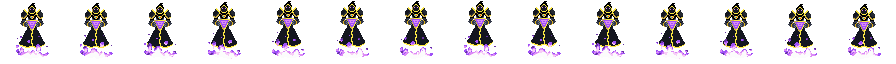
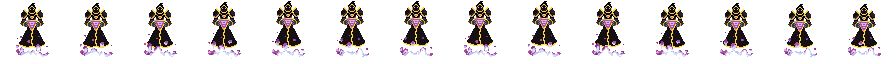
feat: lacaios da Guardiã como esqueletos violeta, círculo de ritual roxo e Guardiã na AAP-64
Claude-Session: https://claude.ai/code/session_012rGhc8giPw9Zwfh9X9HWP6

diff --git a/tools/pixel_art/monsters/recolor_monsters.py b/tools/pixel_art/monsters/recolor_monsters.py
@@ -11,6 +11,12 @@ o volume do sombreado) e menos no croma. Os vermelhos saturados (olhos, sangue) 
 e os cinzas neutros (metal) à rampa fria da pedra da cripta. Duas cores do original que caíssem na mesma cor da paleta são
 separadas pela segunda opção mais próxima quando a diferença de luminosidade entre elas é visível, para não
 apagar detalhes. A transparência é mantida como está.
+
+Exceções:
+- `mage_guardian` (Guardiã Invisível) pode usar o rosa bc4a9b e os azuis vivos da AAP-64, que são a cor dela e
+  dos efeitos dela (`BossRuneFx.Violet`).
+- `skeleton_guardian` (lacaios da Guardiã) não tem original próprio: sai do `skeleton` tingido na rampa violeta
+  da Guardiã, pela luminosidade (o sombreado é mantido, as cores viram roxo e rosa).
 """
 import argparse
 import pathlib
@@ -39,6 +45,14 @@ BLOOD = ["3b1725", "73172d", "b4202a", "e86a73", "f5a097"]
 # Rampa fria da pedra da cripta: destino dos cinzas neutros (metal, escudo, elmo), que senão caem nos marrons.
 STONE = ["060608", "141013", "242234", "333941", "4a5462", "6d758d", "8b93af", "b3b9d1", "dae0ea", "e3e6ff", "ffffff"]
 NEUTRAL_CHROMA = 0.02
+
+# Cores extras permitidas por monstro (além de PALETTE).
+EXTRA_COLORS = {"mage_guardian": ["bc4a9b", "249fde", "285cc4"]}
+
+# Monstros derivados: pasta nova = original de outro monstro tingido numa rampa (do escuro ao claro).
+GUARDIAN_RAMP = ["060608", "141013", "242234", "403353", "793a80", "bc4a9b", "e9b5a3", "fad6b8"]
+TINT_GAMMA = 0.7
+DERIVED = {"skeleton_guardian": ("skeleton", GUARDIAN_RAMP)}
 
 LIGHTNESS_WEIGHT = 1.6
 CHROMA_WEIGHT = 0.8
@@ -77,9 +91,22 @@ def candidates_for(lab, pal):
     return np.arange(len(pal))
 
 
-def build_mapping(colors):
+def build_tint_mapping(colors, ramp):
+    """Tinge pela luminosidade: a faixa de luminosidade do original é esticada sobre a da rampa."""
+    ramp_l = srgb_to_oklab([hex_to_rgb(h) for h in ramp])[:, 0]
+    ls = {rgb: srgb_to_oklab(rgb)[0] for rgb in colors}
+    lo, hi = min(ls.values()), max(ls.values())
+    mapping = {}
+    for rgb, l in ls.items():
+        # Gama < 1 clareia os meios-tons: os ossos do esqueleto são escuros no original e sumiriam no roxo.
+        t = ((l - lo) / max(hi - lo, 1e-6)) ** TINT_GAMMA
+        target = ramp_l[0] + t * (ramp_l[-1] - ramp_l[0])
+        mapping[rgb] = tuple(hex_to_rgb(ramp[int(np.argmin(np.abs(ramp_l - target)))]))
+    return mapping
+
+
+def build_mapping(colors, pal=PALETTE):
     """colors: lista de tuplas RGB do monstro inteiro (todas as folhas). Retorna {rgb: rgb da paleta}."""
-    pal = PALETTE
     pal_lab = srgb_to_oklab([hex_to_rgb(h) for h in pal])
     mapping = {}
     choices = {}
@@ -138,28 +165,35 @@ def main():
     parser.add_argument("--preview", help="grava uma comparação antes/depois (1º quadro de cada folha)")
     args = parser.parse_args()
 
-    allowed = {tuple(hex_to_rgb(h)) for h in PALETTE}
-    rows = []
+    jobs = []
     for folder in sorted(p for p in SOURCE.iterdir() if p.is_dir()):
         files = sorted(folder.glob("*.png"))
-        mapping = build_mapping(monster_colors(files))
-        (TARGET / folder.name).mkdir(parents=True, exist_ok=True)
+        pal = PALETTE + EXTRA_COLORS.get(folder.name, [])
+        jobs.append((folder.name, files, build_mapping(monster_colors(files), pal), pal))
+    for name, (source, ramp) in DERIVED.items():
+        files = sorted((SOURCE / source).glob("*.png"))
+        jobs.append((name, files, build_tint_mapping(monster_colors(files), ramp), ramp))
+
+    rows = []
+    for name, files, mapping, pal in jobs:
+        allowed = {tuple(hex_to_rgb(h)) for h in pal}
+        (TARGET / name).mkdir(parents=True, exist_ok=True)
         for f in files:
             src = Image.open(f).convert("RGBA")
             dst = recolor(src, mapping)
             used = {tuple(int(v) for v in px) for px in np.unique(
                 np.array(dst).reshape(-1, 4)[np.array(dst).reshape(-1, 4)[:, 3] > 0][:, :3], axis=0)}
             assert used <= allowed, (f, used - allowed)
-            dst.save(TARGET / folder.name / f.name)
+            dst.save(TARGET / name / f.name)
             rows.append((src, dst))
-        print(f"{folder.name}: {len(files)} folhas, {len(mapping)} cores -> {len(set(mapping.values()))} da AAP-64")
+        print(f"{name}: {len(files)} folhas, {len(mapping)} cores -> {len(set(mapping.values()))} da AAP-64")
 
     if args.preview:
         scale, size = 2, 150
         sheet = Image.new("RGBA", (len(rows) * size * scale, 2 * size * scale), (36, 34, 52, 255))
         for i, (src, dst) in enumerate(rows):
             for j, im in enumerate((src, dst)):
-                frame = im.crop((0, 0, size, size)).resize((size * scale, size * scale), Image.NEAREST)
+                frame = im.crop((0, 0, min(size, im.height), min(size, im.height))).resize((size * scale, size * scale), Image.NEAREST)
                 sheet.alpha_composite(frame, (i * size * scale, j * size * scale))
         sheet.save(args.preview)
 

diff --git a/scripts/enemies/SpawnRitualCircle.cs b/scripts/enemies/SpawnRitualCircle.cs
@@ -8,6 +8,8 @@ using Godot;
 public partial class SpawnRitualCircle : Node3D
 {
     private const string SheetPath = "res://assets/pixel_art/effects/ritual_circle/ritual_circle_sheet.png";
+    // Rampa violeta da Guardiã Invisível: marca os lacaios dela (BossMinionSummoner).
+    public const string VioletSheetPath = "res://assets/pixel_art/effects/ritual_circle/ritual_circle_violet_sheet.png";
     private const int IgniteFrames = 10;
     private const int PulseFrames = 6;
     private const int BurstFrames = 8;
@@ -20,21 +22,24 @@ public partial class SpawnRitualCircle : Node3D
 
     private enum State { Igniting, Pulsing, Bursting }
 
-    private static Texture2D _sheet;
+    private static readonly System.Collections.Generic.Dictionary<string, Texture2D> Sheets = new();
 
+    private Texture2D _sheet;
     private Sprite3D _sprite;
     private State _state = State.Igniting;
     private float _timer;
     private float _igniteSeconds = MaxIgniteSeconds;
 
     // leadTime: tempo até o monstro surgir; o acender cabe na primeira metade dele.
-    public static SpawnRitualCircle Spawn(Node parent, Vector3 position, float leadTime)
+    public static SpawnRitualCircle Spawn(Node parent, Vector3 position, float leadTime, string sheetPath = SheetPath)
     {
-        if (parent == null || LoadSheet() == null)
+        var sheet = parent == null ? null : LoadSheet(sheetPath);
+        if (sheet == null)
             return null;
         var circle = new SpawnRitualCircle
         {
             Name = "SpawnRitualCircle",
+            _sheet = sheet,
             Position = new Vector3(position.X, GroundHeight, position.Z),
             _igniteSeconds = Mathf.Clamp(leadTime * 0.5f, 0.1f, MaxIgniteSeconds),
         };
@@ -118,12 +123,13 @@ public partial class SpawnRitualCircle : Node3D
             _sprite.Frame = Mathf.Clamp(column, 0, Columns - 1);
     }
 
-    private static Texture2D LoadSheet()
+    private static Texture2D LoadSheet(string path)
     {
-        if (_sheet != null)
-            return _sheet;
-        var image = PixelRoomComposer.LoadImage(SheetPath);
-        _sheet = image == null ? null : ImageTexture.CreateFromImage(image);
-        return _sheet;
+        if (Sheets.TryGetValue(path, out var cached))
+            return cached;
+        var image = PixelRoomComposer.LoadImage(path);
+        var sheet = image == null ? null : ImageTexture.CreateFromImage(image);
+        Sheets[path] = sheet;
+        return sheet;
     }
 }

diff --git a/scripts/bosses/BossMinionSummoner.cs b/scripts/bosses/BossMinionSummoner.cs
@@ -8,7 +8,8 @@ public partial class BossMinionSummoner : Node
 {
     private static float G(string key, float defaultValue) => CompendiumTuning.GetFloat(key, defaultValue);
 
-    private static readonly Color WarningColor = new(0.75f, 0.12f, 0.22f);
+    // Rosa da rampa violeta da Guardia (AAP-64 bc4a9b, BossRuneFx.Violet[2]): marca do 3D.
+    private static readonly Color WarningColor = BossRuneFx.Violet[2];
 
     private readonly RandomNumberGenerator _rng = new();
     private EnemyBasic _boss;
@@ -80,7 +81,8 @@ public partial class BossMinionSummoner : Node
         _ = SpawnAfterWarning(positions);
     }
 
-    // Marca vermelha no chao por boss.minions.warning segundos; depois os lacaios surgem nela.
+    // Marca no chao por boss.minions.warning segundos; depois os lacaios surgem nela.
+    // No 2D e o circulo de ritual das waves na rampa violeta (estoura quando o lacaio surge); no 3D, um disco rosa.
     private async Task SpawnAfterWarning(Godot.Collections.Array<Vector3> positions)
     {
         var warning = G("boss.minions.warning", 0.9f);
@@ -94,13 +96,22 @@ public partial class BossMinionSummoner : Node
 
         _pendingSpawns = Mathf.Max(_pendingSpawns - positions.Count, 0);
         foreach (var mark in marks)
-            if (IsInstanceValid(mark)) mark.QueueFree();
+        {
+            if (!IsInstanceValid(mark)) continue;
+            if (mark is SpawnRitualCircle circle) circle.Burst();
+            else mark.QueueFree();
+        }
         if (!IsInsideTree() || !IsInstanceValid(_boss) || _bossHealth.IsDead) return;
         (GetTree().GetFirstNodeInGroup("run_manager") as RunManager)?.SpawnBossMinions(positions);
     }
 
     private Node3D SpawnWarningMark(Vector3 position, float seconds)
     {
+        if (GameMode.IsPixelArt)
+        {
+            var circle = SpawnRitualCircle.Spawn(GetTree().CurrentScene, position, seconds, SpawnRitualCircle.VioletSheetPath);
+            if (circle != null) return circle;
+        }
         var mark = new MeshInstance3D
         {
             Name = "BossMinionWarning",

diff --git a/tools/pixel_art/ritual_circle/generate_ritual_circle.py b/tools/pixel_art/ritual_circle/generate_ritual_circle.py
@@ -9,6 +9,9 @@ Saída (pasta passada como argumento, padrão assets/pixel_art/effects/ritual_ci
   - 10-15 = pulsar em loop enquanto o monstro não chega (brilho sobe e desce, as runas piscam).
   - 16-23 = estouro quando o monstro surge: clarão, depois as linhas apagam e se desfazem em pontilhado.
 
+- ritual_circle_violet_sheet.png: o mesmo círculo na rampa violeta da Guardiã Invisível (lacaios do boss,
+  BossMinionSummoner.cs), a mesma de BossRuneFx.Violet.
+
     py tools/pixel_art/ritual_circle/generate_ritual_circle.py [pasta] [--gif prévia.gif]
 
 Requer numpy e Pillow.
@@ -20,7 +23,8 @@ from pathlib import Path
 import numpy as np
 from PIL import Image
 
-AAP64 = set("""060608 141013 3b1725 73172d b4202a df3e23 e86a73 f5a097 5b3138""".split())
+AAP64 = set("""060608 141013 3b1725 73172d b4202a df3e23 e86a73 f5a097 5b3138
+242234 403353 793a80 bc4a9b b9bffb e3e6ff""".split())
 
 
 def C(h):
@@ -29,7 +33,9 @@ def C(h):
 
 
 # Rampa de brilho das linhas, do apagado (0) ao incandescente (5).
-RAMP = [C("3b1725"), C("73172d"), C("b4202a"), C("df3e23"), C("e86a73"), C("f5a097")]
+BLOOD_RAMP = [C("3b1725"), C("73172d"), C("b4202a"), C("df3e23"), C("e86a73"), C("f5a097")]
+VIOLET_RAMP = [C("242234"), C("403353"), C("793a80"), C("bc4a9b"), C("b9bffb"), C("e3e6ff")]
+RAMP = BLOOD_RAMP
 SOOT = C("141013")
 
 CELL_W, CELL_H = 72, 40
@@ -265,9 +271,13 @@ def main():
     root = Path(__file__).resolve().parents[3]
     out = Path(args[0]) if args else root / "assets/pixel_art/effects/ritual_circle"
     out.mkdir(parents=True, exist_ok=True)
+    global RAMP
+    for ramp, name in ((BLOOD_RAMP, "ritual_circle_sheet.png"), (VIOLET_RAMP, "ritual_circle_violet_sheet.png")):
+        RAMP = ramp
+        frames = build_sheet()
+        Image.fromarray(np.concatenate(frames, axis=1), "RGBA").save(out / name)
+    RAMP = BLOOD_RAMP
     frames = build_sheet()
-    sheet = np.concatenate(frames, axis=1)
-    Image.fromarray(sheet, "RGBA").save(out / "ritual_circle_sheet.png")
     if gif:
         save_gif(frames, gif)
     print("ok:", out)

diff --git a/scripts/systems/RoomGenerator.cs b/scripts/systems/RoomGenerator.cs
@@ -476,10 +476,14 @@ public partial class RoomGenerator : Node3D
     /// </summary>
     public EnemyBasic SpawnBossMinion(Vector3 position)
     {
-        return SpawnActiveEnemy(position, EnemyRarity.Normal, null, "BossMinion");
+        // Lacaio = corpo a corpo comum; o visual vem do boss do mapa (EnemyVisualCatalog.GetBossMinion).
+        var mapIndex = Mathf.Clamp(RunState.CurrentMapIndex, 0, 3);
+        return SpawnActiveEnemy(position, EnemyRarity.Normal, EnemyArchetype.Melee, "BossMinion",
+            EnemyVisualCatalog.GetBossMinion(mapIndex, EnemyArchetype.Melee));
     }
 
-    private EnemyBasic SpawnActiveEnemy(Vector3 position, EnemyRarity rarity, EnemyArchetype? archetype, string namePrefix)
+    private EnemyBasic SpawnActiveEnemy(Vector3 position, EnemyRarity rarity, EnemyArchetype? archetype, string namePrefix,
+        EnemyVisualDefinition visual = null)
     {
         if (EnemyScene == null)
             return null;
@@ -489,7 +493,7 @@ public partial class RoomGenerator : Node3D
         enemy.Position = position;
         AddChild(enemy, true);
         enemy.ConfigureVariant(rarity, resolvedArchetype);
-        enemy.ApplyPlaceholderVisual(EnemyVisualCatalog.GetEnemy(resolvedArchetype));
+        enemy.ApplyPlaceholderVisual(visual ?? EnemyVisualCatalog.GetEnemy(resolvedArchetype));
         return enemy;
     }
 

diff --git a/scripts/enemies/EnemyVisualCatalog.cs b/scripts/enemies/EnemyVisualCatalog.cs
@@ -69,6 +69,11 @@ public static class EnemyVisualCatalog
         _ => new(PixelEnemySprite.PathPrefix + (Godot.GD.Randf() < 0.5f ? "goblin" : "mushroom"), 1.0f, "Idle", 0.48f, false, 1.0f, 0.0f, "Walk", "Attack", "HitReact")
     };
 
+    // Lacaios do boss (BossMinionSummoner): no 2D, os da Guardiã Invisível são esqueletos violeta; o resto usa o visual comum.
+    public static EnemyVisualDefinition GetBossMinion(int mapIndex, EnemyArchetype archetype) => GameMode.IsPixelArt && mapIndex == 0
+        ? new(PixelEnemySprite.PathPrefix + "skeleton_guardian", 1.0f, "Idle", 0.48f, false, 1.0f, 0.0f, "Walk", "Attack", "HitReact")
+        : GetEnemy(archetype);
+
     // Modo 2D: a Guardiã Invisível usa o sprite do Mage Guardian; os outros chefes continuam com o modelo 3D.
     public static EnemyVisualDefinition GetBoss(int mapIndex) => GameMode.IsPixelArt && mapIndex == 0
         ? new(PixelEnemySprite.PathPrefix + "mage_guardian", 1.5f, "Idle", 0.95f, false, 1.0f, 0.0f, "Walk", "Attack", "HitReact")

diff --git a/scripts/pixel/PixelEnemySprite.cs b/scripts/pixel/PixelEnemySprite.cs
@@ -18,6 +18,8 @@ public partial class PixelEnemySprite : Node3D
     private static readonly Dictionary<string, Clip[]> Monsters = new()
     {
         ["skeleton"] = Clips("idle", "walk"),
+        // Lacaios da Guardiã Invisível: o esqueleto tingido na rampa violeta dela (recolor_monsters.py).
+        ["skeleton_guardian"] = Clips("idle", "walk"),
         ["goblin"] = Clips("idle", "walk"),
         ["mushroom"] = Clips("idle", "walk"),
         // O olho voador só tem o voo: serve de idle e de movimento.

diff --git a/assets/pixel_art/monsters/SOURCE.md b/assets/pixel_art/monsters/SOURCE.md
@@ -32,12 +32,21 @@ rosa, verde-limão) ficam de fora.
 
 ## mage_guardian (Guardiã Invisível, boss do mapa 1)
 
-`mage_guardian/idle.png` é o `mage_guardian-magenta.png` do pacote **Mage Guardian (free)**, copiado sem alteração de
-`F:\ASSETS\mage_guardian_free_creativekind` no PC do Pedro: faixa horizontal de 14 quadros de 64x64, olhando para a
-direita, pés em y≈58. Não foi remapeado para a AAP-64 de propósito: o magenta do núcleo é a cor da Guardiã e casa
-com a rampa violeta dos efeitos dela (`BossRuneFx.Violet`). O pacote só tem a flutuação parada; as outras animações
-do `PixelEnemySprite` reaproveitam a mesma folha.
+`mage_guardian/idle.png` é o `mage_guardian-magenta.png` do pacote **Mage Guardian (free)**, copiado de
+`F:\ASSETS\mage_guardian_free_creativekind` no PC do Pedro (original intocado em
+`tools/pixel_art/monsters/source/mage_guardian/`): faixa horizontal de 14 quadros de 64x64, olhando para a direita,
+pés em y≈58. Remapeado para a AAP-64 pelo `recolor_monsters.py`, que para ela libera também o rosa `bc4a9b` e os
+azuis vivos: o magenta do núcleo continua sendo a cor da Guardiã e casa com a rampa violeta dos efeitos dela
+(`BossRuneFx.Violet`). O pacote só tem a flutuação parada; as outras animações do `PixelEnemySprite` reaproveitam
+a mesma folha.
 
 - **Autor:** creativekind (creativekind.itch.io), pelo nome da pasta do pacote.
 - **Licença:** NÃO REGISTRADA. O pacote veio sem licença nem readme. Antes de distribuir o jogo, confirmar os termos
   na página do pacote e registrar aqui e em `CREDITS.md`.
+
+## skeleton_guardian (lacaios da Guardiã Invisível)
+
+Gerado pelo `recolor_monsters.py` a partir do `skeleton` original: cada cor é tingida pela luminosidade na rampa
+violeta da Guardiã (`060608 141013 242234 403353 793a80 bc4a9b e9b5a3 fad6b8`, todas da AAP-64). Mesma origem e
+licença do `skeleton`. Usado pelos lacaios que ela invoca (`BossMinionSummoner.cs`, `EnemyVisualCatalog.GetBossMinion`).
+

diff --git a/assets/pixel_art/SOURCE.md b/assets/pixel_art/SOURCE.md
@@ -67,3 +67,5 @@ Círculo de ritual (pentagrama) que marca no chão onde um monstro vai surgir no
 - `ritual_circle_sheet.png`: 1 linha x 24 quadros de 72x40, já na projeção 2:1 da tela. Quadros 0-9 = acender (o anel
   é traçado e o pentagrama desenhado ponta a ponta); 10-15 = pulsar em loop até a wave chegar; 16-23 = estouro quando o
   monstro surge. O jogo (`SpawnRitualCircle.cs`, chamado pelo `RoomGenerator`) o deita no chão girado para a câmera.
+- `ritual_circle_violet_sheet.png`: o mesmo círculo na rampa violeta da Guardiã Invisível (`242234 403353 793a80
+  bc4a9b b9bffb e3e6ff`), usado na invocação dos lacaios dela (`BossMinionSummoner.cs`).
